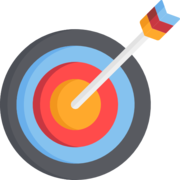
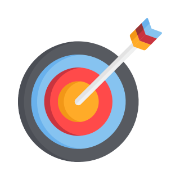
lots of change

diff --git a/components/dashboard/common/customDt.vue b/components/dashboard/common/customDt.vue
@@ -1,66 +1,53 @@
 <template>
-  <v-data-table
-    :headers="tableHeaders"
-    :items="items"
-    :footer-props="{itemsPerPageOptions:[5,20,50,-1]}"
-    class="elevation-1"
-    v-bind="$attrs"
-  >
-    <slot :name="'top'" />
-    <template #item="{item, headers, index, isMobile}">
-      <tr v-if="isMobile" class="v-data-table__mobile-table-row">
-        <td v-for="(header, i) in headers" :key="`cdt-mobile-${i}`" class="v-data-table__mobile-row">
-          <div class="v-data-table__mobile-row__header">
-            {{ header.text }}
-          </div>
-          <div class="v-data-table__mobile-row__cell">
-            <template v-if="header.type === undefined">
+  <div>
+    <v-text-field v-model="search" class="hide-on-print my-3" style="max-width: 320px;" dense append-icon="mdi-magnify" label="جستجو" single-line hide-details outlined clearable>
+    </v-text-field>
+    <v-data-table :headers="tableHeaders" :items="items" :search="search" :footer-props="{ itemsPerPageOptions: [5, 20, 50, -1] }"
+      class="elevation-1" v-bind="$attrs">
+      <slot :name="'top'" />
+      <template #item="{ item, headers, index, isMobile }">
+        <tr v-if="isMobile" class="v-data-table__mobile-table-row">
+          <td v-for="(header, i) in headers" :key="`cdt-mobile-${i}`" class="v-data-table__mobile-row">
+            <div class="v-data-table__mobile-row__header">
+              {{ header.text }}
+            </div>
+            <div class="v-data-table__mobile-row__cell">
+              <template v-if="header.type === undefined">
+                <div :title="header.hasTitle ? item[header.value] : ''" :class="header.cellClass ?? 'text-center'">
+                  {{ item[header.value] }}
+                </div>
+              </template>
+              <template v-else-if="header.type === 'customSlot'">
+                <slot :name="header.value" :header="header" :item="item" :index="index" :value="item[header.value]" />
+              </template>
+              <template v-else>
+                <div :class="header.cellClass ?? 'text-center'">
+                  {{ formatter(header, item[header.value]) }}
+                </div>
+              </template>
+            </div>
+          </td>
+        </tr>
+        <tr v-else>
+          <template v-for="(header, i) in headers">
+            <td v-if="header.type === undefined" :key="`cdt-simple-${i}`" :class="header.cellClass">
               <div :title="header.hasTitle ? item[header.value] : ''" :class="header.cellClass ?? 'text-center'">
                 {{ item[header.value] }}
               </div>
-            </template>
-            <template v-else-if="header.type === 'customSlot'">
-              <slot
-                :name="header.value"
-                :header="header"
-                :item="item"
-                :index="index"
-                :value="item[header.value]"
-              />
-            </template>
-            <template v-else>
-              <div :class="header.cellClass ?? 'text-center'">
+            </td>
+            <td v-else-if="header.type === 'customSlot'" :key="`cdt-cslot-${i}`" :class="header.cellClass">
+              <slot :name="header.value" :header="header" :item="item" :index="index" :value="item[header.value]" />
+            </td>
+            <td v-else :key="`cdt-has-type-${i}`" :class="header.cellClass ?? 'text-center'">
+              <div>
                 {{ formatter(header, item[header.value]) }}
               </div>
-            </template>
-          </div>
-        </td>
-      </tr>
-      <tr v-else>
-        <template v-for="(header, i) in headers">
-          <td v-if="header.type === undefined" :key="`cdt-simple-${i}`">
-            <div :title="header.hasTitle ? item[header.value] : ''" :class="header.cellClass ?? 'text-center'">
-              {{ item[header.value] }}
-            </div>
-          </td>
-          <td v-else-if="header.type === 'customSlot'" :key="`cdt-cslot-${i}`">
-            <slot
-              :name="header.value"
-              :header="header"
-              :item="item"
-              :index="index"
-              :value="item[header.value]"
-            />
-          </td>
-          <td v-else :key="`cdt-has-type-${i}`" :class="header.cellClass ?? 'text-center'">
-            <div>
-              {{ formatter(header, item[header.value]) }}
-            </div>
-          </td>
-        </template>
-      </tr>
-    </template>
-  </v-data-table>
+            </td>
+          </template>
+        </tr>
+      </template>
+    </v-data-table>
+  </div>
 </template>
 <script>
 export default {
@@ -72,6 +59,11 @@ export default {
     items: {
       type: Array,
       default: () => []
+    }
+  },
+  data() {
+    return {
+      search: ''
     }
   },
   methods: {
@@ -96,6 +88,4 @@ export default {
   }
 }
 </script>
-<style>
-
-</style>
+<style></style>

diff --git a/pages/dashboard/admin/exams/result/_id/index.vue b/pages/dashboard/admin/exams/result/_id/index.vue
@@ -3,6 +3,10 @@
     <div class="px-1 d-flex flex-wrap align-center my-3">
       <v-toolbar-title>{{ tableTitle }}</v-toolbar-title>
       <v-spacer />
+      <v-btn color="primary" class="mx-4 hide-on-print" @click="print">
+        <v-icon left>mdi-printer</v-icon>
+        پرینت
+      </v-btn>
       <div>
         <span class="ml-2">نمره قبولی:</span>
         <span class="font-weight-bold" v-text="exam.pass_score" />
@@ -203,6 +207,11 @@ export default {
       console.log(error);
     }
   },
+  head() {
+    return {
+      title: this.tableTitle,
+    };
+  },
   computed: {
     theoretical_exam_weight() {
       return this.exam.theoretical_exam_weight;
@@ -215,8 +224,8 @@ export default {
         {
           text: "#",
           value: "id",
-          align: "start",
-          cellClass: "text-right",
+          align: "center",
+          cellClass: "text-center",
           type: "customSlot",
         },
         {
@@ -230,6 +239,7 @@ export default {
           text: "نام خانوادگی",
           value: "last_name",
           align: "start",
+          class: "fill-width-on-print",
           cellClass: "text-right",
           sortable: false,
         },
@@ -244,6 +254,8 @@ export default {
           text: "نمره تئوری (از 100)",
           value: "theoretical_score",
           align: "center",
+          class: 'hide-on-print',
+          cellClass: 'hide-on-print',
         },
         {
           text: `نمره تئوری (از ${this.theoretical_exam_weight})`,
@@ -255,6 +267,8 @@ export default {
           value: "practical_score",
           align: "center",
           type: "customSlot",
+          class: 'hide-on-print',
+          cellClass: 'hide-on-print',
           width: 200,
         },
         {
@@ -262,22 +276,24 @@ export default {
           value: "weightedPracticalScore",
           align: "center",
         },
-        { text: "ارفاق", value: "leniency_score", align: "center" },
+        { text: "ارفاق", value: "leniency_score", align: "center shrink-on-print" },
         { text: "نمره کل", value: "finalResult", align: "center" },
         {
           text: "پاسخ نامه",
           value: "details",
           align: "center",
+          class: 'hide-on-print',
+          cellClass: 'hide-on-print',
           type: "customSlot",
         },
       ];
     },
     tableTitle() {
-      return `نتیجه آزمون ${this.exam.title}`;
+      return `نتیجه ${this.exam.title}`;
     },
     passCount() {
       return this.items.filter(
-        (i) => i.theoretical_score >= this.exam.pass_score
+        (i) => i.finalResult >= this.exam.pass_score
       ).length;
     },
   },
@@ -396,6 +412,9 @@ export default {
       let action =
         obj.type === "add" ? "_addPracticalScore" : "_updatePracticalScore";
       try {
+        if(obj.type === 'add' && !(obj instanceof Array) ) {
+          obj = [obj];
+        }
         await this[action]({ data: obj, examId: this.$route.params.id });
       } catch (error) {
         console.log(error);
@@ -418,6 +437,9 @@ export default {
         this.toBeEditedPracticalScoreIndex = -1;
       }
     },
+    print(){
+      window.print()
+    }
   },
 };
 </script>

diff --git a/assets/main.css b/assets/main.css
@@ -298,3 +298,61 @@ span.vpd-input-group input {
 .v-card__title {
   word-break: normal !important;
 }
+@page {
+  size: portrait;
+  margin: 1mm 1mm 1mm 1mm;
+}
+@media print {
+  body {
+    margin: 0px;
+  }
+  html,
+  body {
+    width: 210mm;
+    height: 297mm;
+  }
+  .v-application .elevation-1,
+  .v-data-table.elevation-1.elevation-1.v-data-table--fixed-header.v-data-table--has-bottom.theme--light {
+    box-shadow: none !important;
+  }
+  table * {
+    overflow: hidden !important;
+  }
+  header,
+  table thead th i,
+  table tbody td .v-btn,
+  .hide-on-print,
+  .v-data-footer {
+    display: none !important;
+  }
+  main {
+    padding-top: 0 !important;
+  }
+  table thead th {
+    width: auto !important;
+    min-width: unset !important;
+  }
+  .v-data-table > .v-data-table__wrapper > table > tbody > tr > td {
+    height: 24px !important;
+  }
+  .fill-width-on-print {
+    width: 120px !important;
+    min-width: 120px !important;
+  }
+  .shrink-on-print {
+    width: 54px;
+    max-width: 54px;
+    padding: inherit 0px !important;
+  }
+  .v-data-table > .v-data-table__wrapper > table > tbody > tr > th,
+  .v-data-table > .v-data-table__wrapper > table > thead > tr > th,
+  .v-data-table > .v-data-table__wrapper > table > tfoot > tr > th {
+    font-size: 10px;
+  }
+  .v-data-table > .v-data-table__wrapper > table > tbody > tr > td,
+  .v-data-table > .v-data-table__wrapper > table > thead > tr > td,
+  .v-data-table > .v-data-table__wrapper > table > tfoot > tr > td {
+    font-size: 12px !important;
+    padding: inherit 0 !important;
+  }
+}

diff --git a/pages/dashboard/user/past-exams.vue b/pages/dashboard/user/past-exams.vue
@@ -142,22 +142,31 @@ export default {
       try {
         if (exam.show_practical_result === true && exam.show_theoretical_result === true) {
           resp = await self._getBothResult(examId)
+          resp.practical_score = ((resp.practical_score * exam.practical_exam_weight) / 100)
+          resp.theoretical_score = ((resp.theoretical_score * exam.theoretical_exam_weight) / 100)
         } else if (exam.show_practical_result === true) {
           // Get practical result
           resp = await self._getPracticalResult(examId)
+          resp.practical_score = ((resp.practical_score * exam.practical_exam_weight) / 100)
         } else if(exam.show_theoretical_result === true) {
           // Get theoretical result
           resp = await self._getTheoreticalResult(examId)
+          resp.theoretical_score = ((resp.theoretical_score * exam.theoretical_exam_weight) / 100)
         } else {
           self.$toast.error('امکان نمایش نمره برای دوره انتخابی وجود ندارد.')
         }
-      } catch (error) {
-        self.$toast.error('خطا در دریافت اطلاعات')
-      }
-      data = Object.assign({}, data, {exam, resp})
+        data = Object.assign({}, data, {exam, resp})
       if (comp !== '') {
         self.o(comp, data)
       }
+      } catch (error) {
+        console.log(error);
+        
+        self.$toast.error('خطا در دریافت اطلاعات')
+      } finally {
+        self.loading = -1
+      }
+      
     },
     o (comp, data) {
       this.loading = false

diff --git a/nuxt.config.js b/nuxt.config.js
@@ -15,6 +15,7 @@ export default {
     }
   },
   // Global page headers: https://go.nuxtjs.dev/config-head
+  
   head: {
     titleTemplate: '%s - سامانه یکپارچه داوران ایران',
     title: 'سامانه یکپارچه داوران ایران',
@@ -25,13 +26,21 @@ export default {
       { charset: 'utf-8' },
       { name: 'viewport', content: 'width=device-width, initial-scale=1' },
       { hid: 'description', name: 'description', content: '' },
-      { name: 'format-detection', content: 'telephone=no' }
+      { name: 'format-detection', content: 'telephone=no' },
+      { name: 'apple-mobile-web-app-capable', content: 'yes' },
+      { name: 'apple-mobile-web-app-status-bar-style', content: 'black' },
+      { name: 'apple-mobile-web-app-title', content:"My Archery" },
     ],
     link: [
-      { rel: 'icon', type: 'image/x-icon', href: '/favicon.ico' }
+      { rel: 'icon', type: 'image/x-icon', href: '/favicon.ico' },
+      { rel: 'icon', type: 'image/png', href: '/favicon-96x96.png', sizes:"96x96" },
+      { rel: 'icon', type: 'image/svg+xml', href: '/favicon.svg' },
+      { rel: 'shortcut icon', href: '/favicon.ico' },
+      { rel: 'shortcut icon', href: '/favicon.ico' },
+      { rel: 'apple-touch-icon', sizes: '180x180', href: '/apple-touch-icon.png' },
+      { rel: 'manifest', href: '/site.webmanifest' }
     ]
   },
-
   // Global CSS: https://go.nuxtjs.dev/config-css
   css: [
     '@/assets/main.css'

diff --git a/components/dashboard/admin/examQuestionManagement.vue b/components/dashboard/admin/examQuestionManagement.vue
@@ -137,7 +137,7 @@ export default {
       examQuestionTableHeaders: [
         // { text: '#', value: 'id', align: 'start', cellClass: 'text-right' },
         { text: 'متن سوال', value: 'question_text', align: 'start', cellClass: 'text-right' },
-        { text: 'تعداد دفعات استفاده', value: 'exam_count', align: 'start', cellClass: 'text-right' },
+        // { text: 'تعداد دفعات استفاده', value: 'exam_count', align: 'start', cellClass: 'text-right' },
         { text: 'نوع سوال', value: 'question_type', type: 'type', fa: true, align: 'center' },
         { text: 'زمان پاسخگویی', value: 'question_time', align: 'center' },
         { text: 'نمره سوال', value: 'question_point', align: 'center' },
